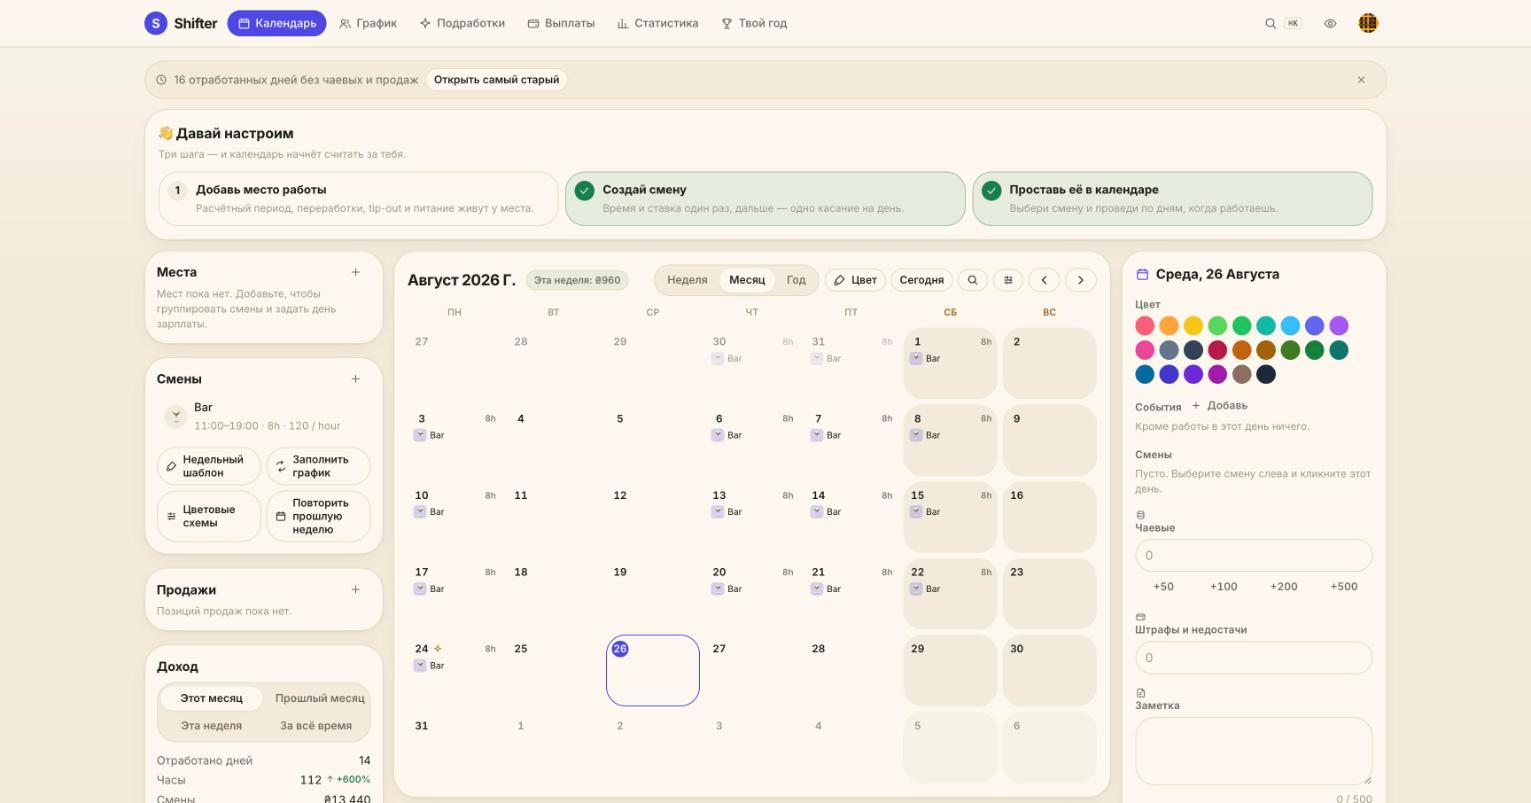
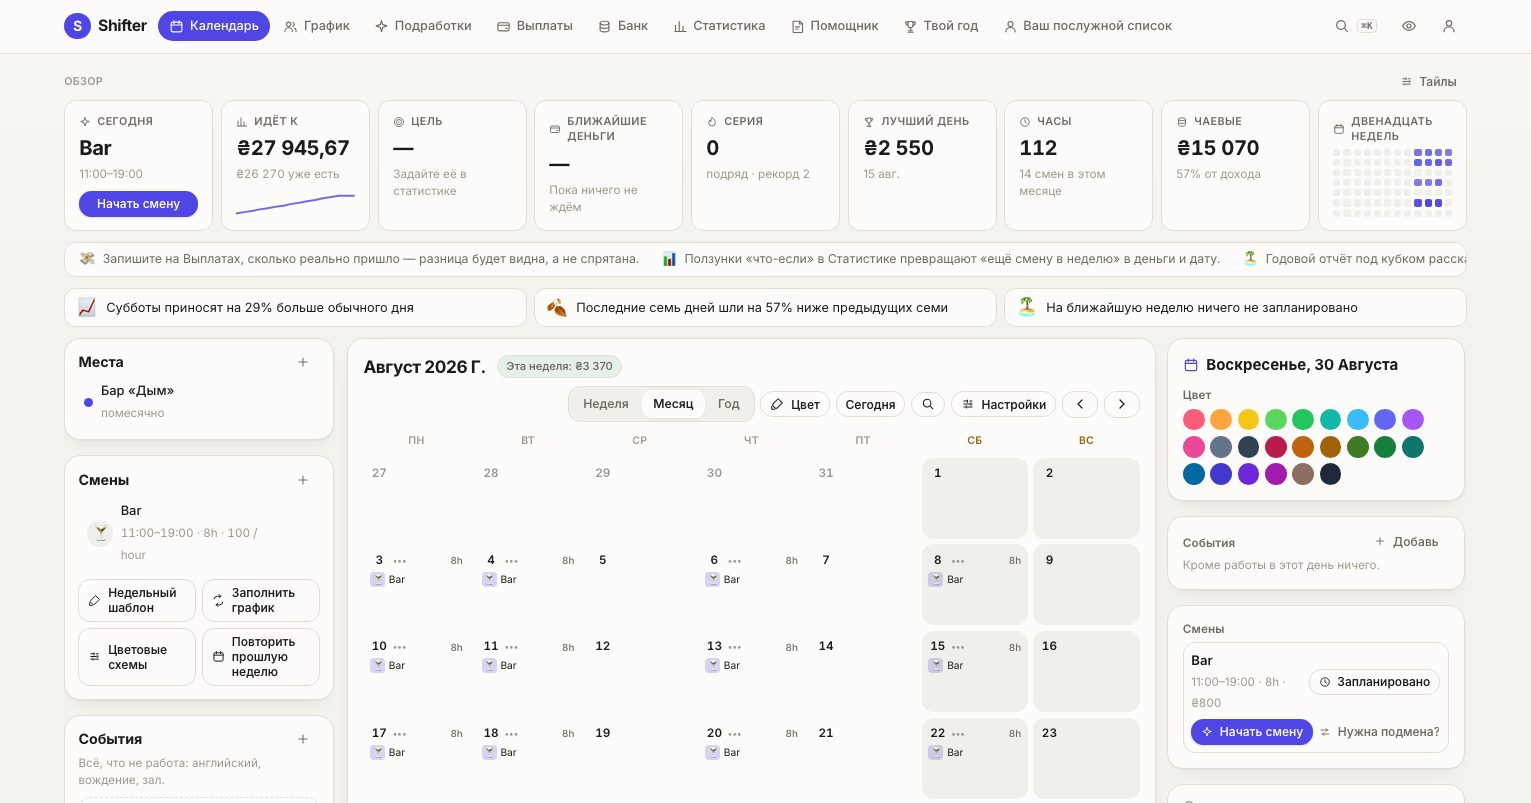
Bake the shop window from the live product
Wave 42. The визитка was showing screenshots of pages that no longer
exist — the bank became a shelf, the calendar got its columns, the
default currency became ₴. Now a hand-run Playwright press
(landing-shots.spec, SHOTS=1) seeds a photogenic month on a fresh
account — a place so the onboarding banner stays out of frame, fourteen
worked days with believable tips, two planned ahead — and writes
calendar/stats/gigs JPEGs straight into public/landing at the exact
size the landing serves. Animations disabled after the first bake
caught a card mid-reveal.

Re-baking after any redesign is one command, so the shop window can no
longer age quietly.

Verified: three shots looked at (stats with its climbing forecast chart
is the best frame the product has ever produced of itself); full gate
green.

Claude-Session: https://claude.ai/code/session_01LyAHetf1a6cePH75jZMcLC

diff --git a/web/e2e/landing-shots.spec.ts b/web/e2e/landing-shots.spec.ts
@@ -1,0 +1,112 @@
+import { test } from '@playwright/test';
+
+import { apiPost, apiPut, createShiftTemplate, registerUser, signIn } from './helpers';
+
+/**
+ * The shop-window press: bakes the landing page's screenshots from the live
+ * product, so the визитка can never quietly show pages that no longer exist.
+ * Run by hand (SHOTS=1), writes straight into public/landing/.
+ */
+test.skip(process.env['SHOTS'] !== '1', 'the landing press runs only when asked: SHOTS=1');
+
+test('bake the landing screenshots', async ({ page }) => {
+  test.setTimeout(120_000);
+
+  const user = await registerUser();
+
+  // A place first, so the page opens on the product, not on the onboarding.
+  await apiPost(user.token, '/locations', {
+    name: 'Бар «Дым»',
+    address: null,
+    colour: '#4f46e5',
+    pay_period: 'monthly',
+    pay_day: 10,
+    pay_anchor: null,
+    overtime_weekly_hours: 40,
+    overtime_multiplier: 1.5,
+    night_multiplier: 1.3,
+    night_from: '22:00',
+    night_to: '06:00',
+    public_holiday_multiplier: 1,
+    holiday_country: 'UA',
+    tip_out_of_tips_percent: 0,
+    tip_out_of_sales_percent: 0,
+    meal_deduction: 0,
+    tax_percent: 0,
+    tax_tips: false,
+    holiday_percent: 0,
+    currency: null,
+  });
+
+  const shift = await createShiftTemplate(user.token);
+
+  // A month that photographs well: a believable rhythm with tips.
+  for (const [day, tips] of [
+    ['03', 850], ['04', 1200], ['06', 700], ['08', 1500], ['10', 900],
+    ['11', 1100], ['13', 650], ['15', 1750], ['17', 800], ['18', 1300],
+    ['20', 950], ['22', 1600], ['24', 720], ['25', 1050],
+  ] as const) {
+    await apiPut(user.token, `/days/2026-08-${day}`, {
+      shifts: [{
+        shift_id: shift,
+        worked: true,
+        needs_cover: false,
+        actual_start: null,
+        actual_end: null,
+        break_minutes: null,
+        revenue: null,
+      }],
+      sales: [],
+      tips,
+      tips_cash: null,
+      deductions: 0,
+      deduction_reason: null,
+      note: null,
+    });
+  }
+
+  // Two planned days ahead, so the calendar shows a future.
+  for (const day of ['28', '30']) {
+    await apiPut(user.token, `/days/2026-08-${day}`, {
+      shifts: [{
+        shift_id: shift,
+        worked: false,
+        needs_cover: false,
+        actual_start: null,
+        actual_end: null,
+        break_minutes: null,
+        revenue: null,
+      }],
+      sales: [],
+      tips: null,
+      tips_cash: null,
+      deductions: 0,
+      deduction_reason: null,
+      note: null,
+    });
+  }
+
+  await signIn(page, user);
+  await page.addInitScript(() => {
+    localStorage.setItem('shifter.settings', JSON.stringify({ theme: 'light', language: 'ru' }));
+    localStorage.setItem('shifter.tour.v1', 'seen');
+  });
+
+  await page.setViewportSize({ width: 1531, height: 803 });
+
+  for (const [path, name] of [
+    ['/dashboard', 'calendar.jpg'],
+    ['/stats', 'stats.jpg'],
+    ['/gigs', 'gigs.jpg'],
+  ] as const) {
+    await page.goto(path);
+    await page.waitForLoadState('networkidle');
+    await page.waitForTimeout(1400);
+    await page.screenshot({
+      path: `public/landing/${name}`,
+      type: 'jpeg',
+      quality: 82,
+      animations: 'disabled',
+    });
+  }
+});
